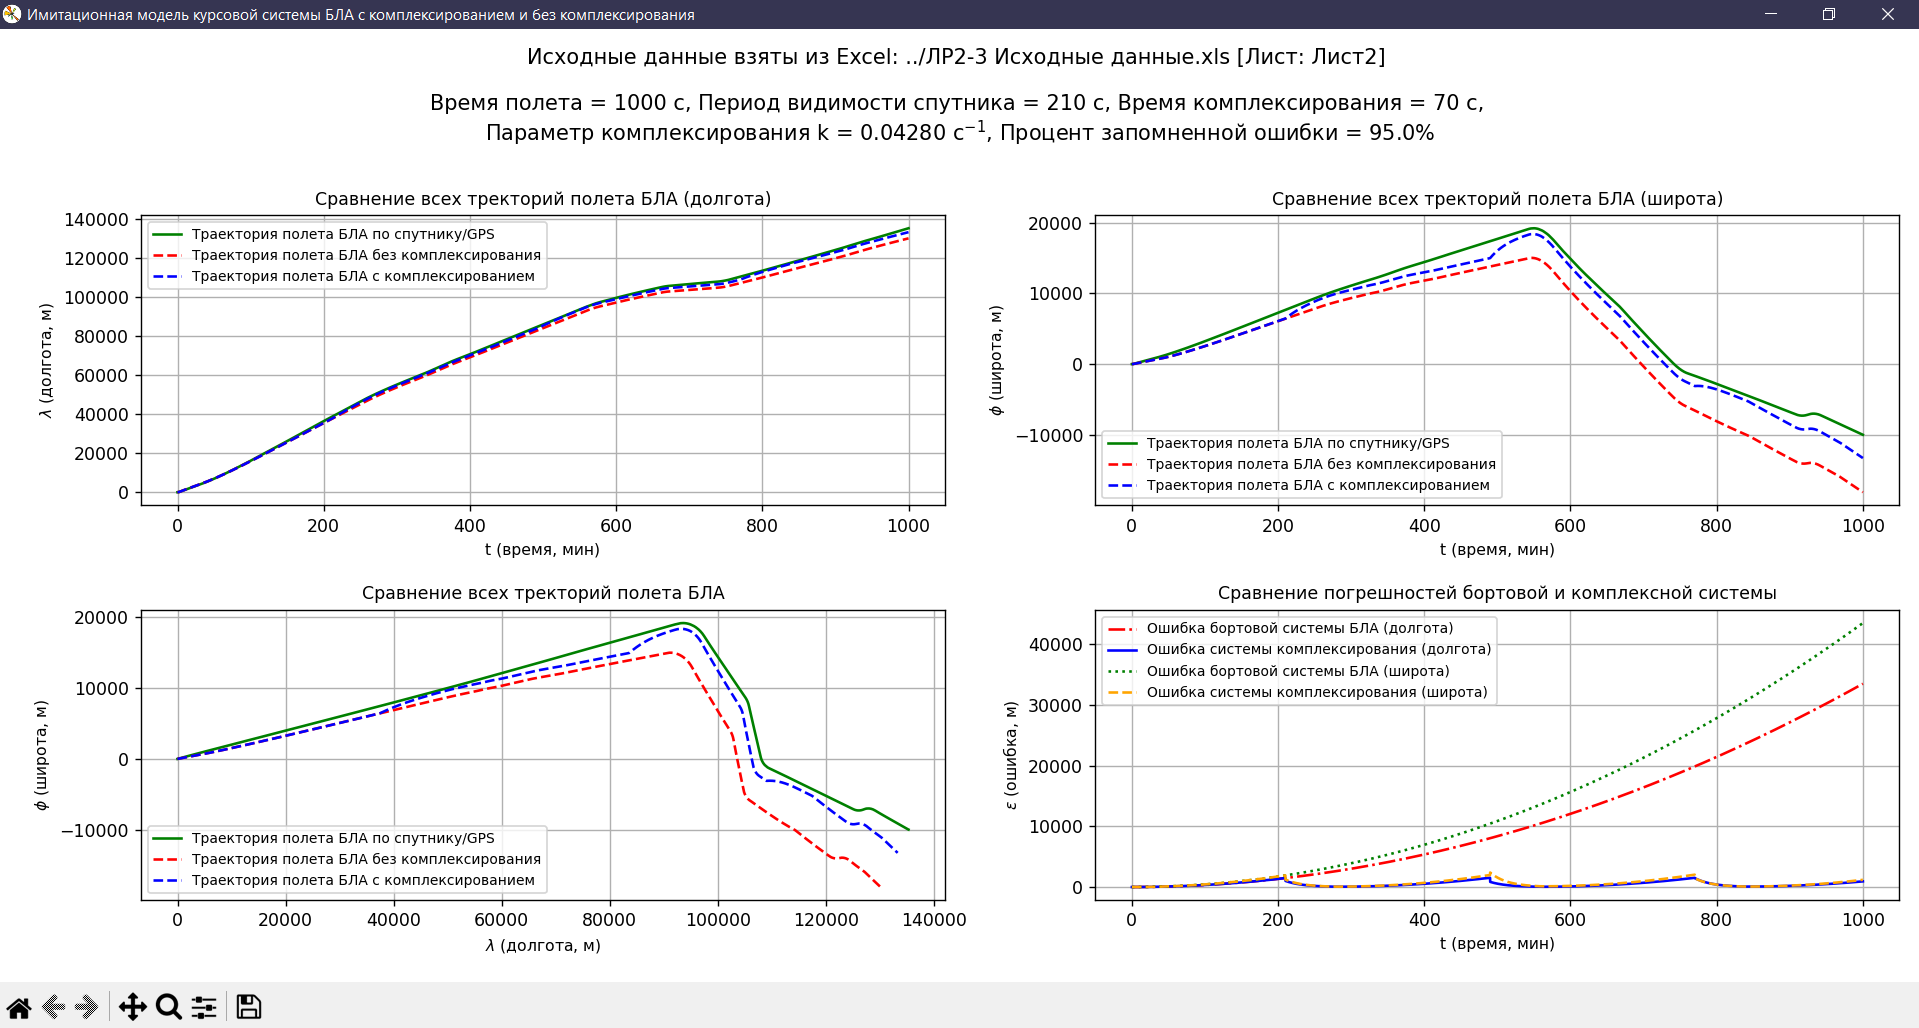
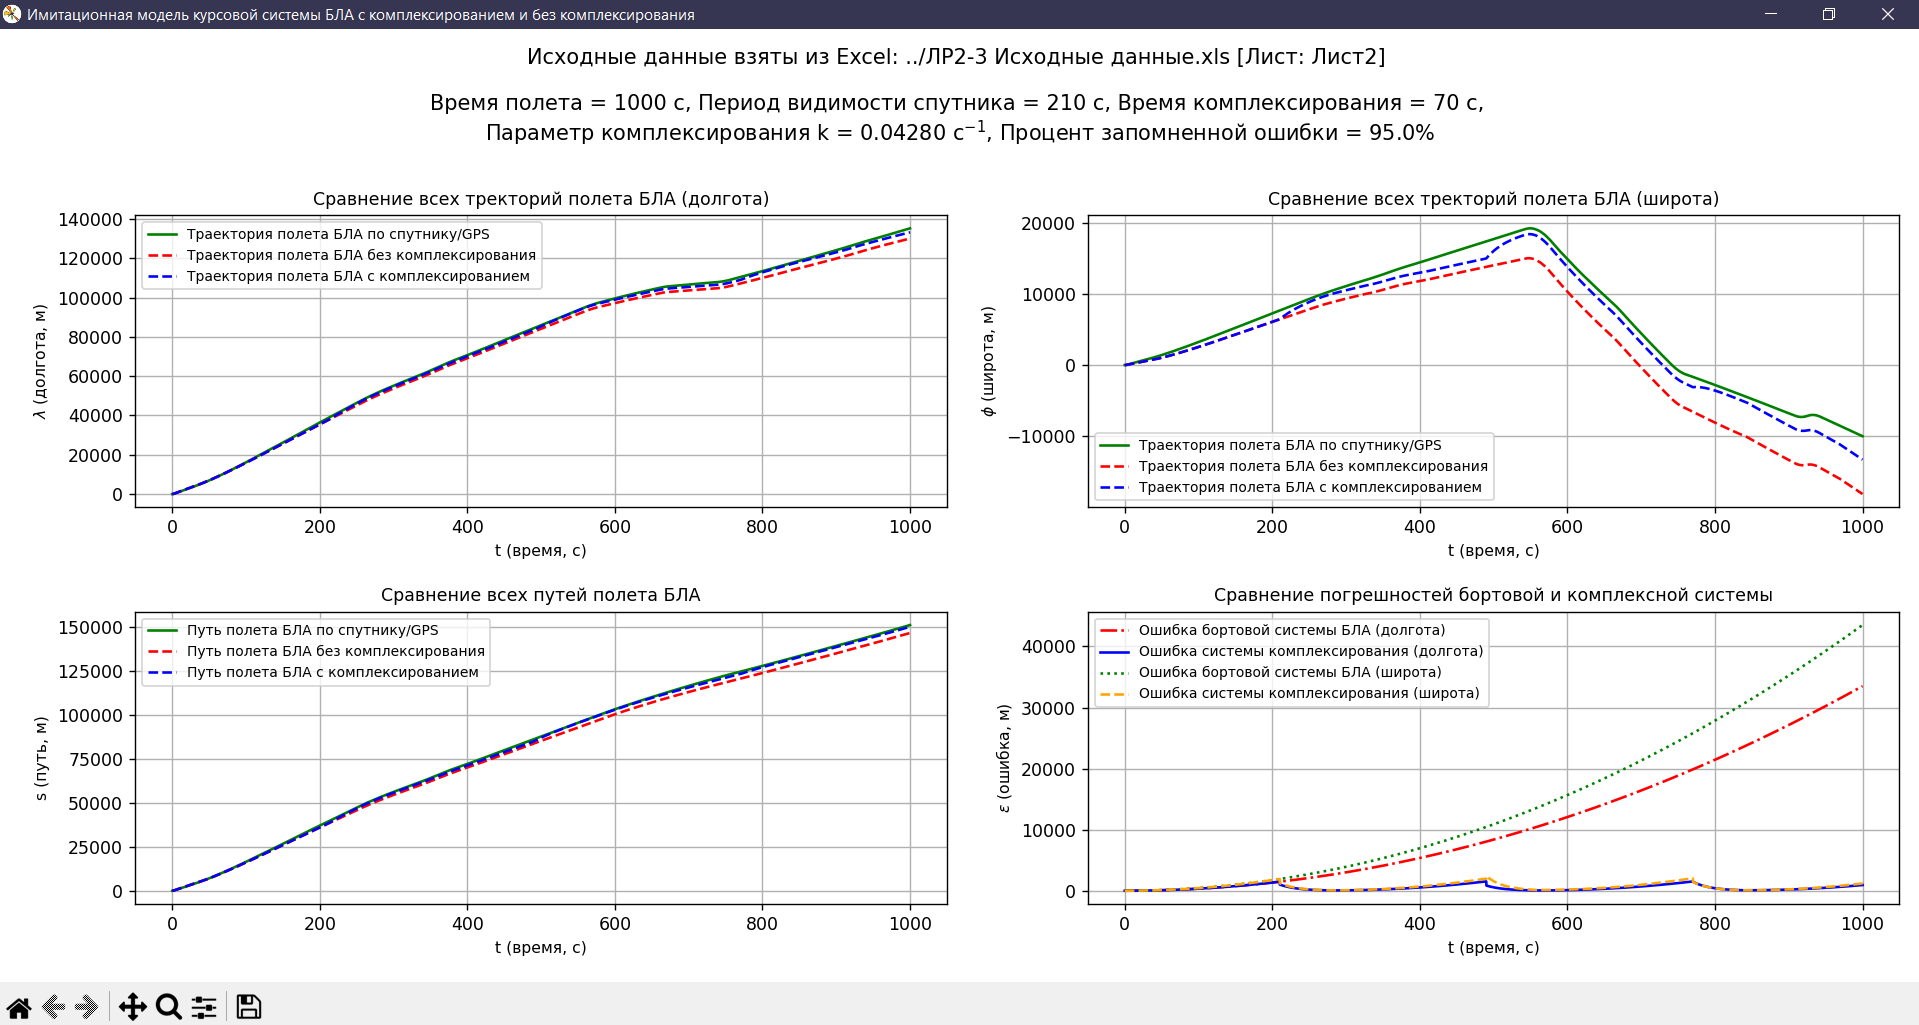
lab3 finally update

diff --git a/Classical mathematical models of complex systems/Lab2-3/UAV_flight_TOTAL/UAV_flight_TOTAL.py b/Classical mathematical models of complex systems/Lab2-3/UAV_flight_TOTAL/UAV_flight_TOTAL.py
@@ -366,10 +366,10 @@ class SimulationManager:
         x = np.array(x, dtype=float)
         y = np.array(y, dtype=float)
         # Вычисление
-        dx = np.diff(x)              # приращения по долготе
-        dy = np.diff(y)              # приращения по широте
-        ds = np.sqrt(dx**2 + dy**2)  # пройденный путь в каждый момент времени
-        path = np.cumsum(ds)         # накопленный путь в каждый момент времени
+        dx = np.diff(x)                             # приращения по долготе
+        dy = np.diff(y)                             # приращения по широте
+        ds = np.sqrt(dx**2 + dy**2)                 # пройденный путь в каждый момент времени
+        path = np.concatenate(([0], np.cumsum(ds))) # накопленный путь в каждый момент времени
         return path
 
     def run(self):
@@ -469,7 +469,7 @@ class SimulationManager:
         axs[0, 0].plot(t, x_without_GPS, label="Траектория полета БЛА без комплексирования", color='red', linestyle='--')
         axs[0, 0].plot(t, x_with_GPS, label="Траектория полета БЛА с комплексированием", color='blue', linestyle='--')
         axs[0, 0].set_title("Сравнение всех тректорий полета БЛА (долгота)", fontsize=10)
-        axs[0, 0].set_xlabel("t (время, мин)", fontsize=9)
+        axs[0, 0].set_xlabel("t (время, с)", fontsize=9)
         axs[0, 0].set_ylabel("$\lambda$ (долгота, м)", fontsize=9)
         axs[0, 0].legend(fontsize=8)
         axs[0, 0].grid(True)
@@ -479,18 +479,18 @@ class SimulationManager:
         axs[0, 1].plot(t, y_without_GPS, label="Траектория полета БЛА без комплексирования", color='red', linestyle='--')
         axs[0, 1].plot(t, y_with_GPS, label="Траектория полета БЛА с комплексированием", color='blue', linestyle='--')
         axs[0, 1].set_title("Сравнение всех тректорий полета БЛА (широта)", fontsize=10)
-        axs[0, 1].set_xlabel("t (время, мин)", fontsize=9)
+        axs[0, 1].set_xlabel("t (время, с)", fontsize=9)
         axs[0, 1].set_ylabel("$\phi$ (широта, м)", fontsize=9)
         axs[0, 1].legend(fontsize=8)
         axs[0, 1].grid(True)
 
-        # Траектория полета БЛА + Траектории полета БЛА без комплексирования и с ним (широта + долгота)
-        axs[1, 0].plot(x_GPS, y_GPS, label="Траектория полета БЛА по спутнику/GPS", color='green', linestyle='-')
-        axs[1, 0].plot(x_without_GPS, y_without_GPS, label="Траектория полета БЛА без комплексирования", color='red', linestyle='--')
-        axs[1, 0].plot(x_with_GPS, y_with_GPS, label="Траектория полета БЛА с комплексированием", color='blue', linestyle='--')
-        axs[1, 0].set_title("Сравнение всех тректорий полета БЛА", fontsize=10)
-        axs[1, 0].set_xlabel("$\lambda$ (долгота, м)", fontsize=9)
-        axs[1, 0].set_ylabel("$\phi$ (широта, м)", fontsize=9)
+        # Путь полета БЛА + Пути полета БЛА без комплексирования и с ним (путь + время)
+        axs[1, 0].plot(t, path_GPS, label="Путь полета БЛА по спутнику/GPS", color='green', linestyle='-')
+        axs[1, 0].plot(t, path_without_GPS, label="Путь полета БЛА без комплексирования", color='red', linestyle='--')
+        axs[1, 0].plot(t, path_with_GPS, label="Путь полета БЛА с комплексированием", color='blue', linestyle='--')
+        axs[1, 0].set_title("Сравнение всех путей полета БЛА", fontsize=10)
+        axs[1, 0].set_xlabel("t (время, с)", fontsize=9)
+        axs[1, 0].set_ylabel("s (путь, м)", fontsize=9)
         axs[1, 0].legend(fontsize=8)
         axs[1, 0].grid(True)
 
@@ -500,7 +500,7 @@ class SimulationManager:
         axs[1, 1].plot(t, err_without_GPS_Y, label="Ошибка бортовой системы БЛА (широта)", color='green', linestyle=':')
         axs[1, 1].plot(t, err_with_GPS_Y, label="Ошибка системы комплексирования (широта)", color='orange', linestyle='--')
         axs[1, 1].set_title("Сравнение погрешностей бортовой и комплексной системы", fontsize=10)
-        axs[1, 1].set_xlabel("t (время, мин)", fontsize=9)
+        axs[1, 1].set_xlabel("t (время, с)", fontsize=9)
         axs[1, 1].set_ylabel("$\epsilon$ (ошибка, м)", fontsize=9)
         axs[1, 1].legend(fontsize=8)
         axs[1, 1].grid(True)
